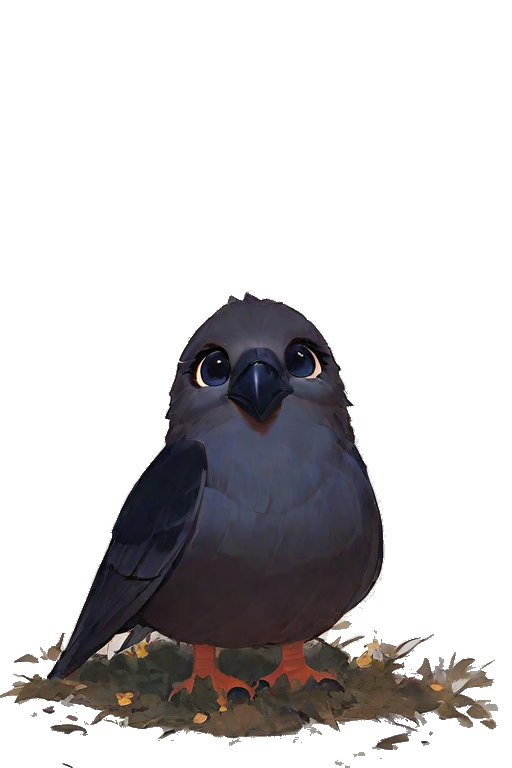
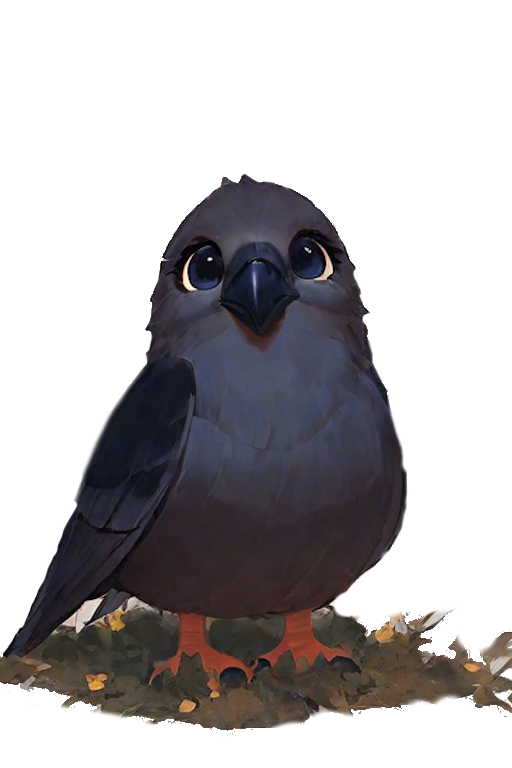
PetPage, MainPage update

Changed region(s): [[0.0, 0.2188, 1.0, 1.0]]

diff --git a/frontend/src/pages/PetPage.css b/frontend/src/pages/PetPage.css
@@ -1,104 +1,44 @@
-/* PetPage.css */
-.PetPage {
-  display: flex;
-  justify-content: center;
-  align-items: center;
-  height: calc(60vh + 30px);
-  padding: 20px;
-  
-  /* Set the background image */
-
-  background-size: cover; /* Make sure the image covers the whole area */
-  background-position: center; /* Center the image */
-  background-repeat: no-repeat; /* Prevent the image from repeating */
-}
-
-
+/* Adjusted container layout for side-by-side structure */
 .pet-page-container {
   display: flex;
+  position: relative; /* Parent element is now relative */
   justify-content: space-between;
-  align-items: flex-start;
+  width: 90%;
   max-width: 900px;
-  margin: 0 auto;
-  padding: 20px;
-  background-color: #a07a41;
+  margin: 90px auto;
+  padding: 30px;
+  background-color: #343232;
   border-radius: 10px;
-  box-shadow: 0 4px 10px rgba(112, 103, 103, 0.1);
+  box-shadow: 0 0 10px rgba(0, 0, 0, 0.5);
 }
 
-/* Darker outer frame */
-.outer-frame {
-  padding: 10px; /* Padding for the inner form section */
-  border-radius: 15px;
-  background-color: #9a7d74; /* Slightly darker frame */
-  box-shadow: 0 4px 15px rgba(0, 0, 0, 0.2); /* Deeper shadow for depth */
-}
-
+/* Form section styling */
 .pet-form-container {
-  width: 40%;
-  padding-right: 40px;
-  margin-right: auto;
-  border-radius: 10px;
-  background-color: #c7ab7a; /* Light background for the form section */
+  width: 35%; /* Take 45% of the width for the form */
+  background-color: #525151;
   padding: 20px;
-}
-
-/* Form Styling */
-.pet-form {
-  display: flex;
-  flex-direction: column;
-}
-
-.form-group {
-  margin-bottom: 20px;
-}
-
-label {
-  font-weight: bold;
-  color: #3d3434;
-  margin-bottom: 5px;
-}
-
-input, select {
-  padding: 10px;
-  border: 1px solid #806054;
-  border-radius: 5px;
-  font-size: 14px;
-  background-color: #c0b6a5;
-  width: 100%;
-}
-
-/* Lift the dropdown for pet type */
-select {
-  margin-top: -10px; /* Move it up slightly */
-}
-
-button {
-  margin-top: 20px;
-}
-
-.submitbuttonpet {
-  background-color: rgb(39, 32, 32); /* Use a hyphen for property names */
-  margin-top: 20px; /* Use a hyphen for property names */
-  padding: 10px 20px; 
-  color: white;
-  outline: 1px solid #efefef; /* White outline */
-  outline-offset: -3px;
-  text-shadow: 1px 1px 0px #000, -1px -1px 0px #000, 1px -1px 0px #000, -1px 1px 0px #000; 
-}
-
-
-
-
-/* Image Section */
-.pet-image-container {
-  display: flex;
-  align-items: center;
-  justify-content: center;
-  width: 40%;
-}
-
-.pet-image-container img {
-  max-width: 100%;
   border-radius: 10px;
+  max-width: 350px;
+}
+
+/* Image section styling */
+.pet-image-container {
+  width: 45%; /* Take 45% of the width for the image */
+  max-width: 500px;
+  display: flex;
+  padding: 30px 0 0 0;
+  justify-content: center;
+  align-items: center;
+}
+
+
+/* Button style consistent with MainPage */
+.submitbuttonpet {
+  background-color: rgb(39, 32, 32);
+  margin-top: 20px;
+  padding: 10px 20px;
+  color: white;
+  outline: 1px solid #efefef;
+  outline-offset: -3px;
+  text-shadow: 1px 1px 0px #000, -1px -1px 0px #000, 1px -1px 0px #000, -1px 1px 0px #000;
 }

diff --git a/frontend/src/components/petImage.jsx b/frontend/src/components/petImage.jsx
@@ -1,47 +1,64 @@
 import React from 'react';
 import './petImage.css'; // Import your CSS file for styling
 
-const PetImage = ({ petType, selectedColor, petName }) => {
-  // Define images for each pet type and color
+const PetImage = ({ petType, selectedColor, petName, pageType }) => {
+  // Define images for each pet type and color on different pages
   const images = {
     dog: {
-      '#ed5345': '/images/1.png',
-      '#6bd694': '/images/3.png',
+      mainPage: {
+        '#ed5345': '/images/1.png',
+        '#6bd694': '/images/3.png',
+      },
+      petPage: {
+        '#ed5345': '/images/dog.png',
+        '#6bd694': '/images/dog-2.png',
+      }
     },
     cat: {
-      '#ed5345': '/images/2.png',
-      '#6bd694': '/images/4.png',
+      mainPage: {
+        '#ed5345': '/images/2.png',
+        '#6bd694': '/images/4.png',
+      },
+      petPage: {
+        '#ed5345': '/images/cat.png',
+        '#6bd694': '/images/cat-2.png',
+      }
     },
     bird: {
-      '#ed5345': '/images/5.png',
-      '#6bd694': '/images/6.png',
+      mainPage: {
+        '#ed5345': '/images/5.png',
+        '#6bd694': '/images/6.png',
+      },
+      petPage: {
+        '#ed5345': '/images/bird.png',
+        '#6bd694': '/images/bird-2.png',
+      }
     },
   };
 
-  const petImageSrc = images[petType]?.[selectedColor] || '/images/1.png'; // Fallback if no match
+  // Select the correct image based on pet type, color, and page
+  const petImageSrc = images[petType]?.[pageType]?.[selectedColor] || '/images/2.png'; // Fallback to default
 
   return (
     <div 
-      className="pet-image-container" 
-      style={{
-        backgroundColor: 'rgba(28, 28, 28, 0.5)', // Grey with 50% opacity
-        backgroundSize: 'cover',
+      className={`pet-image-container ${pageType}-page`} 
+      style={pageType === 'mainPage' ? {
+        backgroundColor: 'rgba(38, 38, 38, 0.5)', // Grey with 50% opacity for MainPage
         backgroundPosition: 'center',
         width: '504px',
         height: '400px',
         position: 'relative',
-      }}
-      
+      } : {}}
     >
-      <h2 className='petBuddy'></h2>
+      <h2 className='petBuddy'>{petName}</h2>
       <img 
         src={petImageSrc} 
         alt={petType} 
         className="pet-image" 
-        style={{ 
+        style={{
           position: 'absolute', 
           bottom: '10px', 
-          maxWidth: '50%', // Make the image smaller to fit well
+          maxWidth: '50%', 
           height: 'auto',
         }} 
       />

diff --git a/frontend/src/components/petImage.css b/frontend/src/components/petImage.css
@@ -1,19 +1,25 @@
 .pet-image-container {
     width: 504px; /* Keep this width consistent with the form */
     height: 400px; /* Adjust height to your preference */
+    min-width: 300px;
     border-radius: 10px;
     display: flex;
     flex-direction: column; /* Center content horizontally */
     justify-content: center; /* Push the image towards the bottom */
-    padding: 10px; /* Padding for internal spacing */
-    box-shadow: 0 4px 10px rgba(0, 0, 0, 2); /* Optional: adds some depth */
+    background-position: center;
+    width: 504px;
+    height: 430px;
+    position: relative;
+    
+
 }
 
 /* Styling for the pet image itself */
 .pet-image {
-    max-width: 80%; /* Make the image smaller to fit well */
+    max-width: 0%; /* Make the image smaller to fit well */
     height: auto;
     display: block; /* Make sure the image is block to center */
+
 }
 
 /* Styling for the pet name */

diff --git a/frontend/src/components/petDetails.css b/frontend/src/components/petDetails.css
@@ -2,8 +2,9 @@
   display: flex;
   justify-content: center;
   align-items: flex-start; /* Align form and image to the top */
-  width: 100%;
+  width: 90%;
   max-width: 900px; /* Adjust container width */
+  min-width: 700px;
   margin: 0 auto; /* Center the entire form and image container */
   padding: 50px;
   background-color: #bd9858; /* White background for the whole section */
@@ -14,6 +15,7 @@
 .pet-form-container {
   width: 50%; /* Form takes 50% of the width */
   padding-right: 20px; /* Space between form and image */
+  min-width: 300px;
 }
 
 h2 {
@@ -26,6 +28,8 @@ h2 {
 .pet-form {
   display: flex;
   flex-direction: column;
+  max-width: 300px;
+  
 }
 
 .form-group {
@@ -43,7 +47,7 @@ h2 {
 
 label {
   font-weight: bold;
-  color: #5b4b4b;
+  color: #decdcd;
   margin-bottom: 5px;
 }
 

diff --git a/frontend/src/pages/PetPage.jsx b/frontend/src/pages/PetPage.jsx
@@ -25,7 +25,7 @@ function PetPage() {
   };
 
   return (
-    <div className="pet-page-container" style={{ display: 'flex', alignItems: 'flex-start' }}>
+    <div className="pet-page-container">
       {/* Form Section */}
       <div className="pet-form-container">
         <PetForm
@@ -41,8 +41,10 @@ function PetPage() {
       </div>
 
       {/* Image Section */}
-      <div className="pet-image-section" style={{ display: 'flex', justifyContent: 'center', alignItems: 'flex-start' }}>
-        <PetImage petName={petName} petType={petType} selectedColor={selectedColor} />
+      <div className="pet-image-container">
+      <PetImage petType={petType} selectedColor={selectedColor} petName={petName} pageType="petPage" />
+
+
       </div>
     </div>
   );

diff --git a/frontend/src/pages/MainPage.jsx b/frontend/src/pages/MainPage.jsx
@@ -85,8 +85,9 @@ useEffect(() => {
       </div>
   
       <div style={{ display: 'flex', flexDirection: 'column', alignItems: 'center' }}>
-        <PetImage petType={petType} selectedColor={selectedColor} petName={petName} />
-  
+      <PetImage petType={petType} selectedColor={selectedColor} petName={petName} pageType="mainPage" />
+
+
         {/* XPManager-Component */}
         <XPManager level={level} setLevel={setLevel} xp={xp} setXp={setXp} />
   

diff --git a/frontend/src/index.css b/frontend/src/index.css
@@ -1,5 +1,5 @@
 body {
-  font-family: 'Chiller', cursive, Arial, sans-serif;
+  font-family: Arial, sans-serif;
   background-color: #121212;
   color: #ffffff;
   margin: 0;
